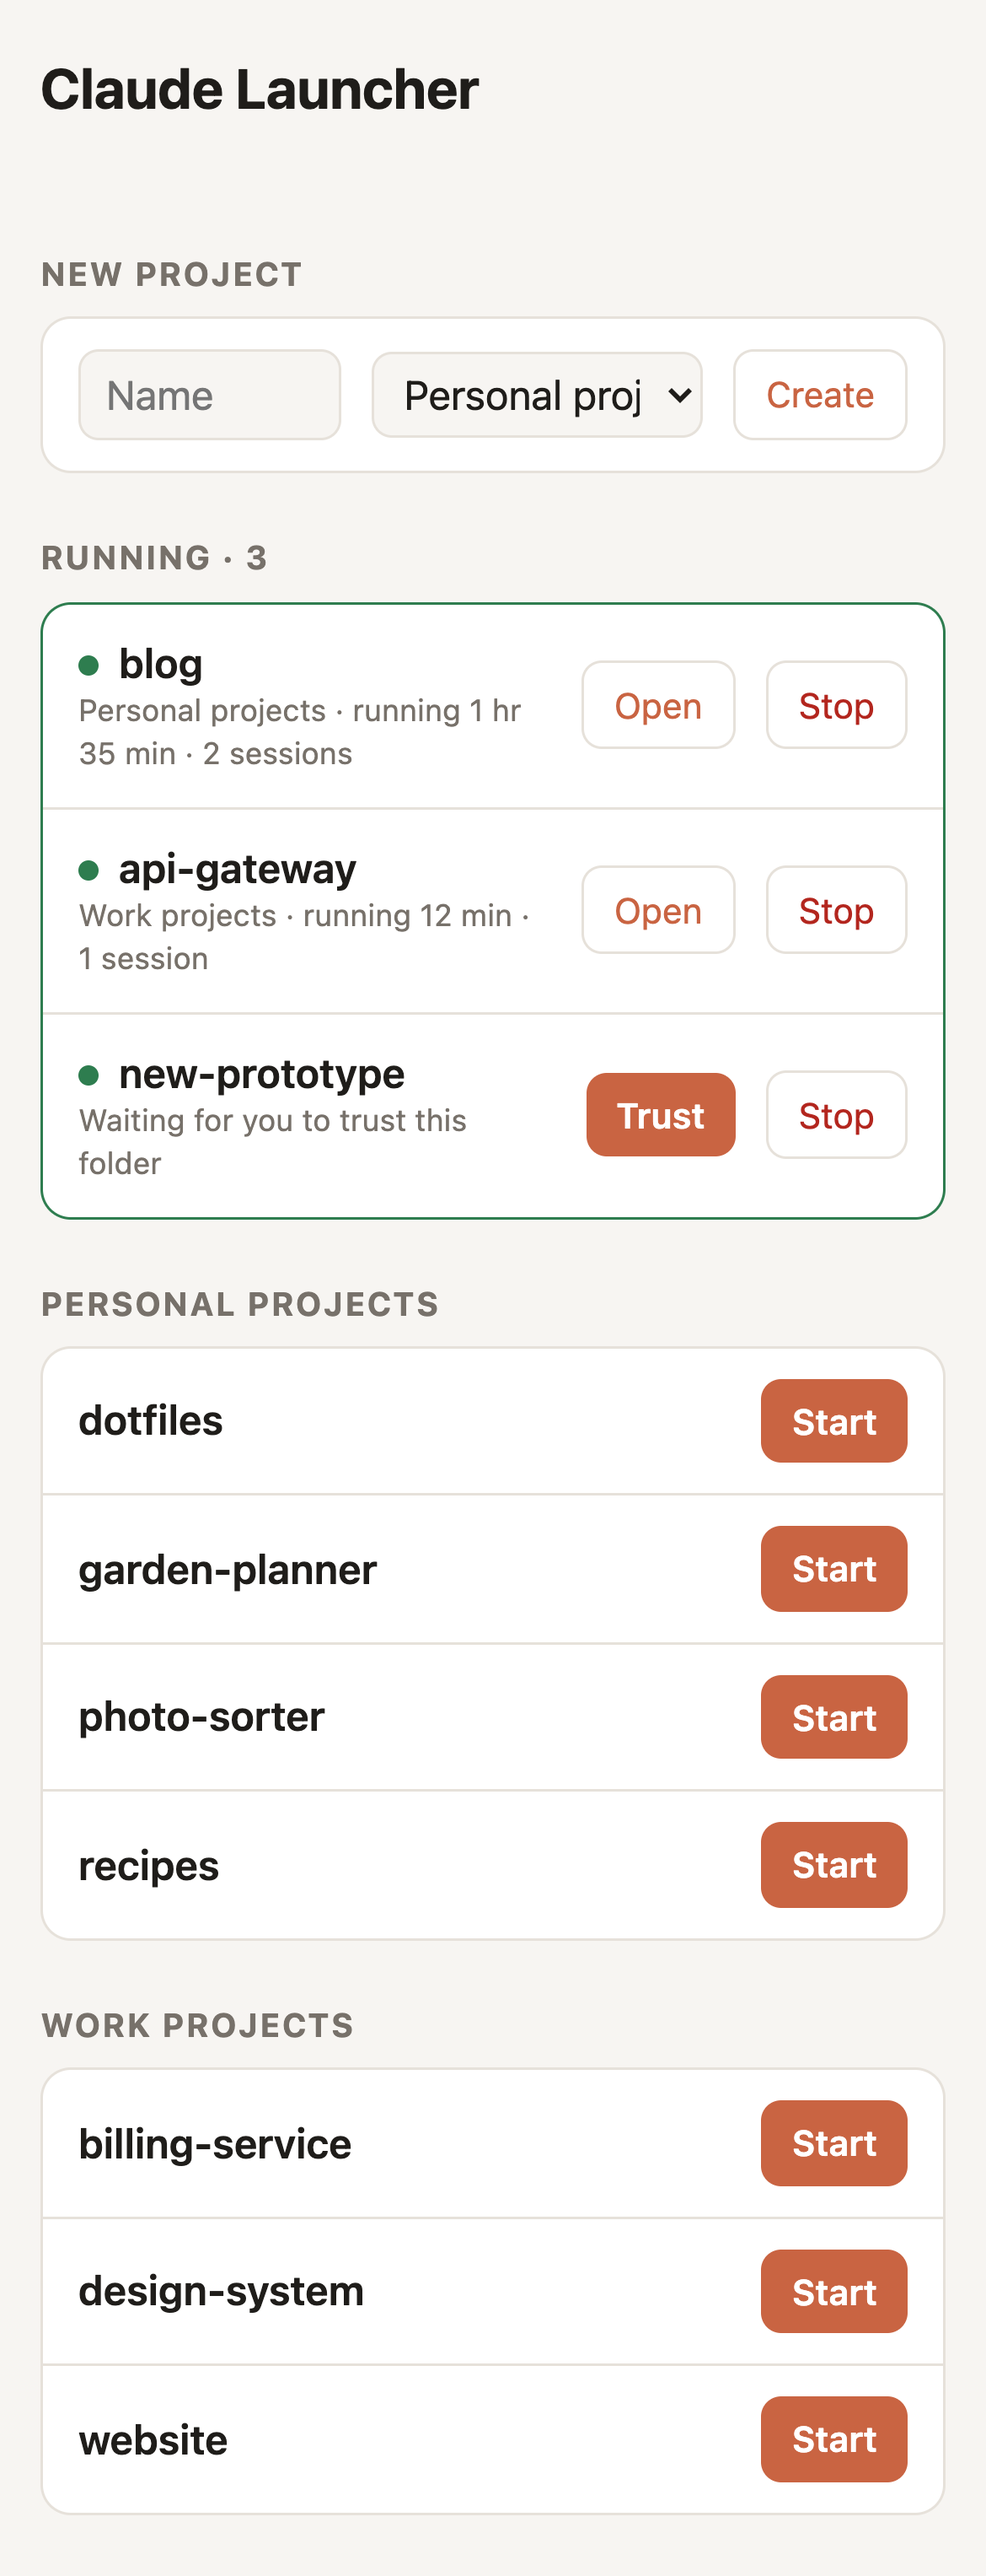
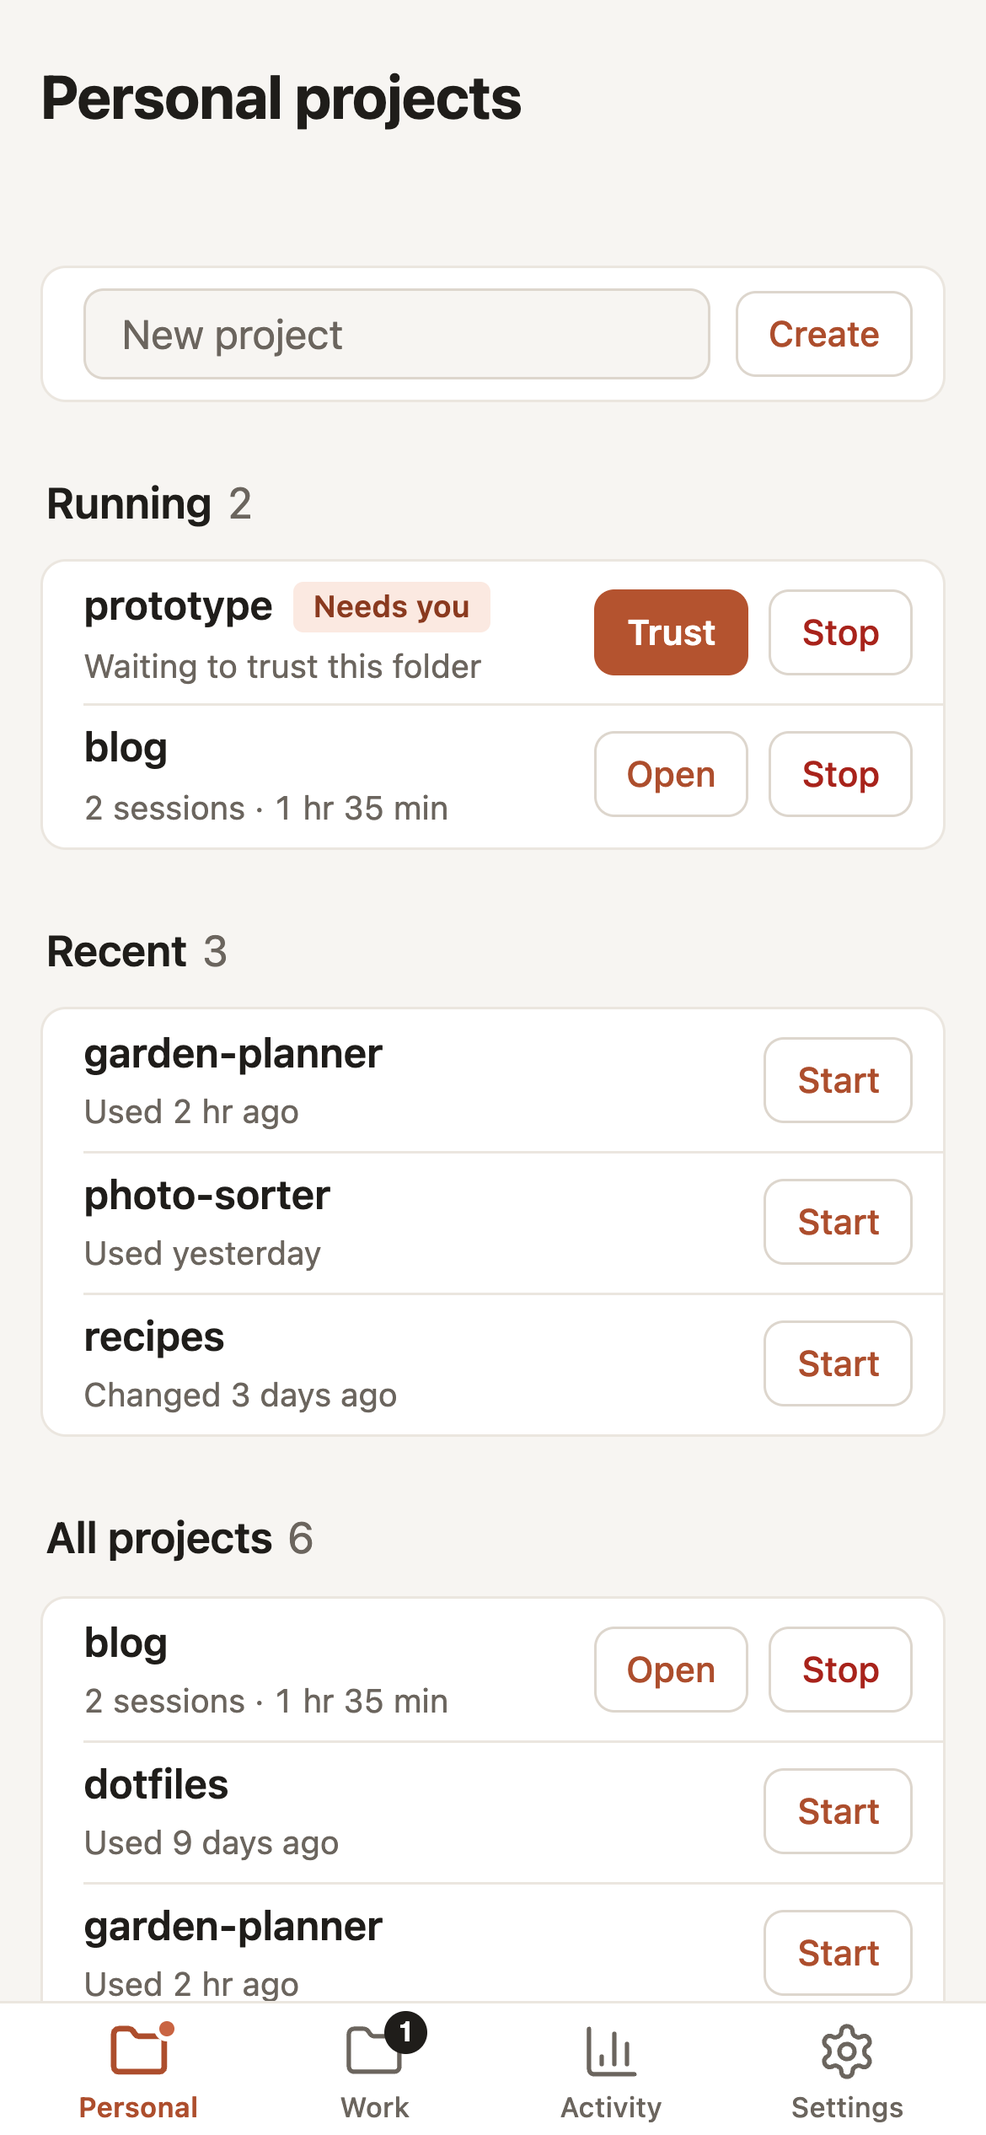
Update the README screenshot for the group-page layout (sample data)

diff --git a/README.md b/README.md
@@ -11,9 +11,9 @@ The page has a toolbar at the bottom with a page for each project group set in c
 - Pull down from the top of a page to reload it. Group pages also refresh every 15 seconds.
 - A group's tab uses its "short" name from config.local.json, or the title without "projects".
 
-With more than one Claude account (for example personal and work), each project group belongs to one account, and a switch at the top of Home shows one account at a time: the toolbar and Home show only that account's groups, and Home shows who it's signed in as. Servers for both accounts can run at once; the switch only changes what the page shows, and its tabs count each account's running servers. The Claude iPhone app only lists Remote Control servers for the account it's signed in to, so switch accounts there too.
+With more than one Claude account (for example personal and work), each project group belongs to one account, and a switch in Settings shows one account at a time: the toolbar and pages show only that account's groups, and Settings shows who it's signed in as. Servers for both accounts can run at once; the switch only changes what the page shows, and its tabs count each account's running servers. The Claude iPhone app only lists Remote Control servers for the account it's signed in to, so switch accounts there too.
 
-<img src="docs/screenshot.png" alt="Claude Launcher on an iPhone" width="320">
+<img src="docs/screenshot.png" alt="Claude Launcher on an iPhone, showing a project group page (sample data)" width="320">
 
 URL (tailnet only): https://<mac-name>.<tailnet>.ts.net/rc
 
